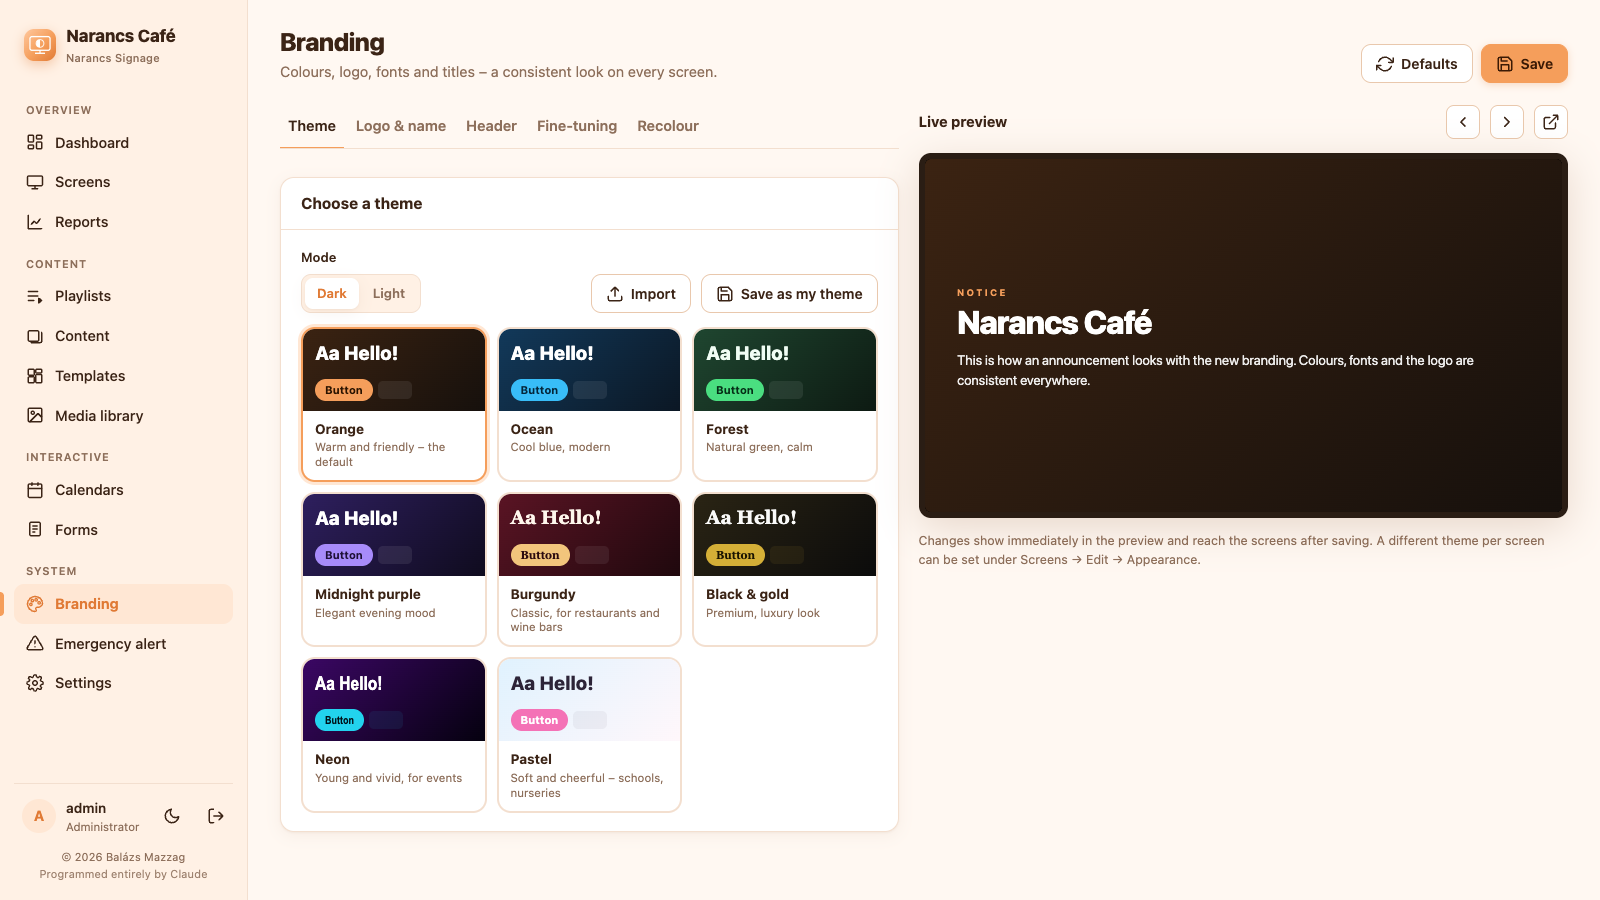
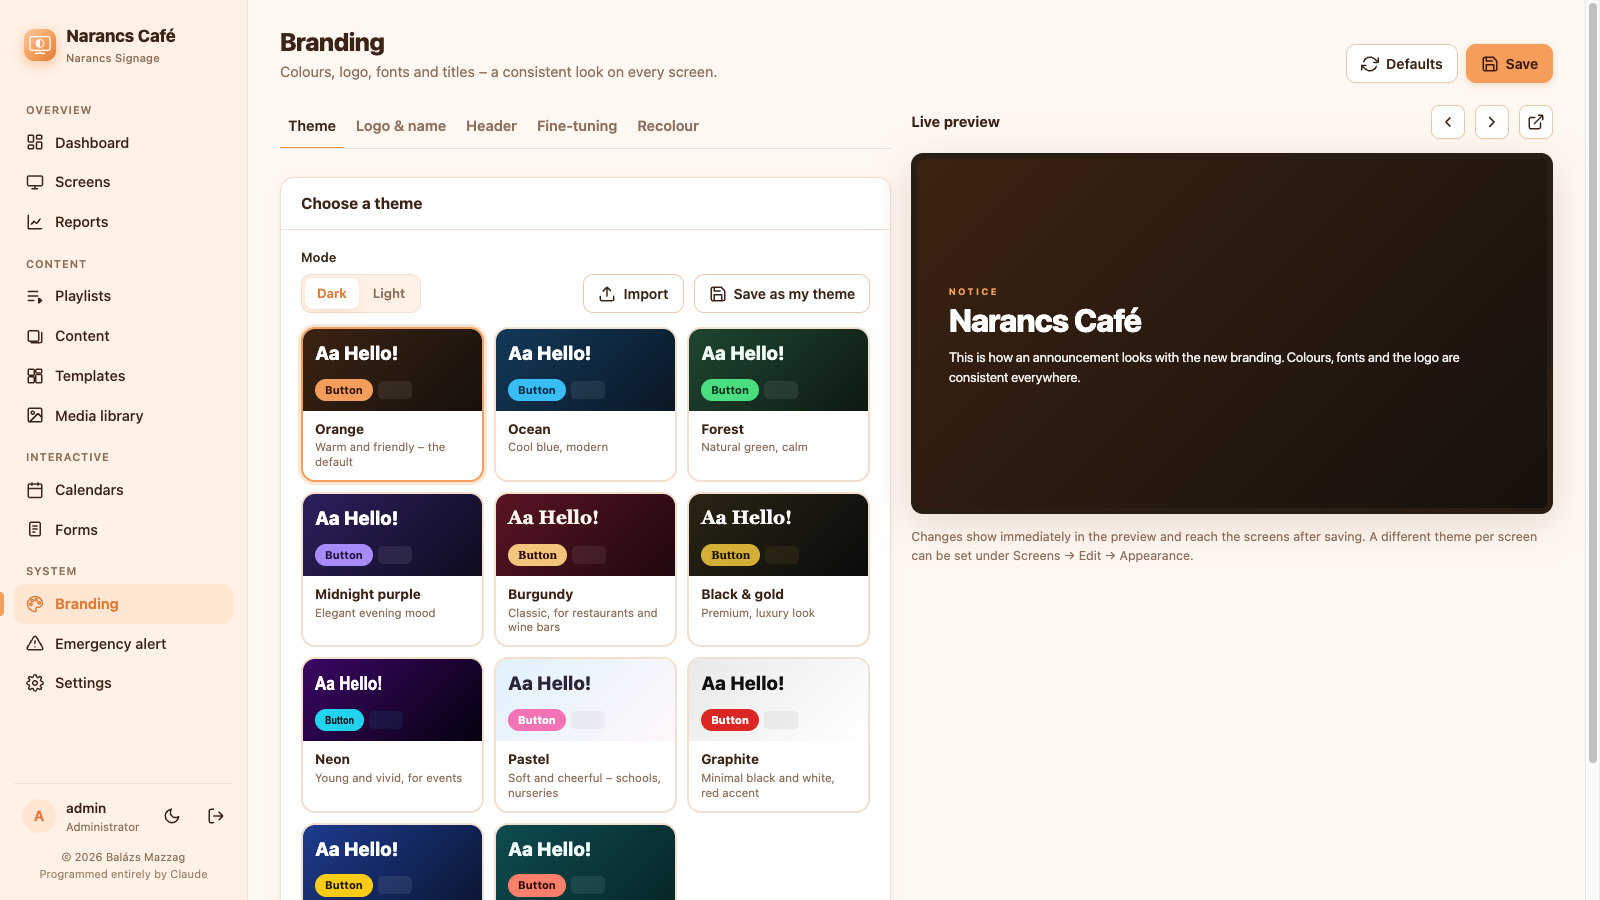
Három új téma: Grafit, Napfény, Korall

Changed region(s): [[0.2812, 0.0, 1.0, 0.84], [0.1875, 0.7467, 0.5625, 1.0], [0.5625, 0.1244, 0.625, 0.1556]]

diff --git a/server/public/shared/themes.js b/server/public/shared/themes.js
@@ -46,6 +46,15 @@
     pasztell: { name: 'Pasztell', desc: 'Lágy, vidám – iskolák, óvodák', font: 'nunito', head_font: 'nunito', radius: 'round', mode: 'light',
       light: { accent: '#f472b6', accent_fg: '#ffffff', bg: '#fff7fb', bg2: '#e0f2fe', fg: '#2d2438', surface: 'rgba(45,36,56,0.05)', muted: 'rgba(45,36,56,0.62)' },
       dark: { accent: '#f9a8d4', accent_fg: '#3a0d24', bg: '#1e1a2b', bg2: '#2d3a55', fg: '#fdf2f8', surface: 'rgba(255,255,255,0.08)', muted: 'rgba(253,242,248,0.7)' } },
+    grafit: { name: 'Grafit', desc: 'Minimalista fekete-fehér, piros kiemelés', font: 'inter', head_font: 'inter', radius: 'sharp', mode: 'light',
+      light: { accent: '#dc2626', accent_fg: '#ffffff', bg: '#ffffff', bg2: '#e9e9e9', fg: '#111111', surface: 'rgba(17,17,17,0.05)', muted: 'rgba(17,17,17,0.62)' },
+      dark: { accent: '#ef4444', accent_fg: '#ffffff', bg: '#101010', bg2: '#2a2a2a', fg: '#fafafa', surface: 'rgba(255,255,255,0.07)', muted: 'rgba(250,250,250,0.68)' } },
+    napfeny: { name: 'Napfény', desc: 'Napsárga és mélykék – üzletek, iskolák', font: 'poppins', head_font: 'montserrat', radius: 'round', mode: 'dark',
+      dark: { accent: '#facc15', accent_fg: '#1a1500', bg: '#0b1633', bg2: '#1d3b8f', fg: '#ffffff', surface: 'rgba(255,255,255,0.08)', muted: 'rgba(255,255,255,0.72)' },
+      light: { accent: '#1d4ed8', accent_fg: '#ffffff', bg: '#fffdf0', bg2: '#fde68a', fg: '#0f1d40', surface: 'rgba(15,29,64,0.06)', muted: 'rgba(15,29,64,0.66)' } },
+    korall: { name: 'Korall', desc: 'Élénk korall és mély türkiz – éttermek, fitnesz', font: 'roboto', head_font: 'poppins', radius: 'soft', mode: 'dark',
+      dark: { accent: '#ff7f6b', accent_fg: '#2a0a05', bg: '#052628', bg2: '#0f4c4f', fg: '#f0fdfa', surface: 'rgba(255,255,255,0.08)', muted: 'rgba(240,253,250,0.72)' },
+      light: { accent: '#d4472f', accent_fg: '#ffffff', bg: '#f4fbfa', bg2: '#cdeeea', fg: '#0b2f30', surface: 'rgba(11,47,48,0.06)', muted: 'rgba(11,47,48,0.64)' } },
   };
 
   const COLOR_LABELS = {

diff --git a/server/public/shared/i18n.js b/server/public/shared/i18n.js
@@ -984,6 +984,12 @@
     'Fiatalos, élénk, rendezvényekhez': 'Young and vivid, for events',
     'Pasztell': 'Pastel',
     'Lágy, vidám – iskolák, óvodák': 'Soft and cheerful – schools, nurseries',
+    'Grafit': 'Graphite',
+    'Minimalista fekete-fehér, piros kiemelés': 'Minimal black and white, red accent',
+    'Napfény': 'Sunshine',
+    'Napsárga és mélykék – üzletek, iskolák': 'Sunny yellow and deep blue – shops, schools',
+    'Korall': 'Coral',
+    'Élénk korall és mély türkiz – éttermek, fitnesz': 'Vivid coral and deep teal – restaurants, fitness',
     'Rendszer (alap)': 'System (default)',
     'Playfair Display (talpas)': 'Playfair Display (serif)',
     'Lora (talpas)': 'Lora (serif)',

diff --git a/README.hu.md b/README.hu.md
@@ -25,7 +25,7 @@ Teljeskörű, saját üzemeltetésű digital signage rendszer: központi admin f
   </tr>
   <tr>
     <td width="50%"><img src="docs/screenshots/hu/admin-content-editor.png" alt="Tartalomszerkesztő (interaktív menü)"><br><sub>Tartalomszerkesztő (interaktív menü)</sub></td>
-    <td width="50%"><img src="docs/screenshots/hu/admin-branding.png" alt="Arculat: 8 téma, élő előnézet"><br><sub>Arculat: 8 téma, élő előnézet</sub></td>
+    <td width="50%"><img src="docs/screenshots/hu/admin-branding.png" alt="Arculat: 11 téma, élő előnézet"><br><sub>Arculat: 11 téma, élő előnézet</sub></td>
   </tr>
   <tr>
     <td width="50%"><img src="docs/screenshots/hu/admin-alerts.png" alt="Vészjelzés"><br><sub>Vészjelzés</sub></td>
@@ -86,7 +86,7 @@ Teljeskörű, saját üzemeltetésű digital signage rendszer: központi admin f
 **Egyéb**
 - 🌍 Választható nyelv (English / Magyar, alapból angol): admin felület, kijelzők, szerverüzenetek
 - 🚀 Első telepítéskor alap lejátszási lista minta tartalmakkal – a képernyő párosítás után azonnal mutat valamit
-- 🎨 Arculat: 10 előre megadott téma (Narancs, Óceán, Erdő, Éjféli lila, Bordó, Fekete-arany, Neon, Pasztell), egyedi színek, betűtípusok, lekerekítés, logó vízjel, fejléc sáv címmel/alcímmel/órával, képernyőnként eltérő téma – élő előnézettel
+- 🎨 Arculat: 10 előre megadott téma (Narancs, Óceán, Erdő, Éjféli lila, Bordó, Fekete-arany, Neon, Pasztell, Grafit, Napfény, Korall), egyedi színek, betűtípusok, lekerekítés, logó vízjel, fejléc sáv címmel/alcímmel/órával, képernyőnként eltérő téma – élő előnézettel
 - 🚨 Vészjelzés / közlemény: azonnali, teljes képernyős üzenet minden vagy kiválasztott képernyőre (sablonok: tűzriadó, evakuálás…), lejárati idővel
 - 📊 Irányítópult: online képernyők, megjelenések és érintések statisztikája, legnézettebb tartalmak, beküldések
 - 📈 Riportok (lejátszási igazolás): mi, hol és hányszor ment le, tartalom és képernyő szerint, CSV exporttal

diff --git a/README.md b/README.md
@@ -25,7 +25,7 @@ A complete, self-hosted digital signage system: a central admin panel (with a so
   </tr>
   <tr>
     <td width="50%"><img src="docs/screenshots/admin-content-editor.png" alt="Content editor (interactive menu)"><br><sub>Content editor (interactive menu)</sub></td>
-    <td width="50%"><img src="docs/screenshots/admin-branding.png" alt="Branding: 8 themes, live preview"><br><sub>Branding: 8 themes, live preview</sub></td>
+    <td width="50%"><img src="docs/screenshots/admin-branding.png" alt="Branding: 11 themes, live preview"><br><sub>Branding: 11 themes, live preview</sub></td>
   </tr>
   <tr>
     <td width="50%"><img src="docs/screenshots/admin-alerts.png" alt="Emergency alerts"><br><sub>Emergency alerts</sub></td>
@@ -86,7 +86,7 @@ A complete, self-hosted digital signage system: a central admin panel (with a so
 **More**
 - 🌍 Selectable language (English / Hungarian, English by default): admin panel, displays, server messages
 - 🚀 A default playlist with sample content on first install – a newly paired screen shows something right away
-- 🎨 Branding: 8 built-in themes (Orange, Ocean, Forest, Midnight purple, Burgundy, Black & gold, Neon, Pastel), custom colours, fonts, corner rounding, logo watermark, header bar with title/subtitle/clock, a different theme per screen – with live preview
+- 🎨 Branding: 11 built-in themes (Orange, Ocean, Forest, Midnight purple, Burgundy, Black & gold, Neon, Pastel, Graphite, Sunshine, Coral), custom colours, fonts, corner rounding, logo watermark, header bar with title/subtitle/clock, a different theme per screen – with live preview
 - 🚨 Emergency alerts / notices: an instant full-screen message on all or selected screens (templates: fire alarm, evacuation…), with expiry
 - 📊 Dashboard: online screens, view and touch statistics, most viewed content, form submissions
 - 📈 Reports (proof of play): what played where and how often, by content and screen, with CSV export

diff --git a/CLAUDE.md b/CLAUDE.md
@@ -17,7 +17,7 @@ Saját fejlesztésű digital signage rendszer. A felhasználó magyarul kommunik
   - `seed.js` minta tartalmak (alap lejátszási lista): első beállításkor és `POST /api/samples`
 - `server/public/admin/` – admin SPA (vanilla JS, build nélkül). Halvány narancs téma. `F.*` űrlap-segédek, `TYPES` = 15 tartalomtípus (a `zones` = osztott képernyő).
 - `server/public/player/` – lejátszó (kioszk böngészőben fut). Renderelők a `renderers` objektumban; `fixEmoji` minden emojit színes betűtípusba tesz; `#boot` indulókép.
-- `server/public/shared/` – `i18n.js` (fordítások, dátumnevek), `themes.js` (8 arculati téma `dark`/`light` palettával, `mode` = alapértelmezett; `resolve(branding, képernyőTéma, { mode, custom })`; admin + lejátszó közös), `zones.js` (osztott képernyő elrendezések), `splash/` (logó: félnap egy tévén, bootképkockák).
+- `server/public/shared/` – `i18n.js` (fordítások, dátumnevek), `themes.js` (11 arculati téma `dark`/`light` palettával, `mode` = alapértelmezett; `resolve(branding, képernyőTéma, { mode, custom })`; admin + lejátszó közös), `zones.js` (osztott képernyő elrendezések), `splash/` (logó: félnap egy tévén, bootképkockák).
 - Osztott képernyő: minden zóna egy beágyazott lejátszó (`player/index.html?zone=3,5`), ami a szülő `window.__signage` állapotából olvassa a konfigurációt – így minden típus a zóna méretéhez igazodik.
 - Jogosultság: `auth.js` `authorize()` – szerepkörök `admin` | `editor` | `viewer` (`users.role`), API kulcs `Authorization: Bearer ns_…` (`api_tokens`, csak sha256 hash). Az `A` middleware a `server.js`-ben bejelentkezés + szerepkör. Új admin-only végpontot az `adminOnly()` listába kell felvenni.
 - Sémabővítés meglévő adatbázisokhoz: `db.js` `addColumn()` (pl. `events.rrule`, `users.role`).
